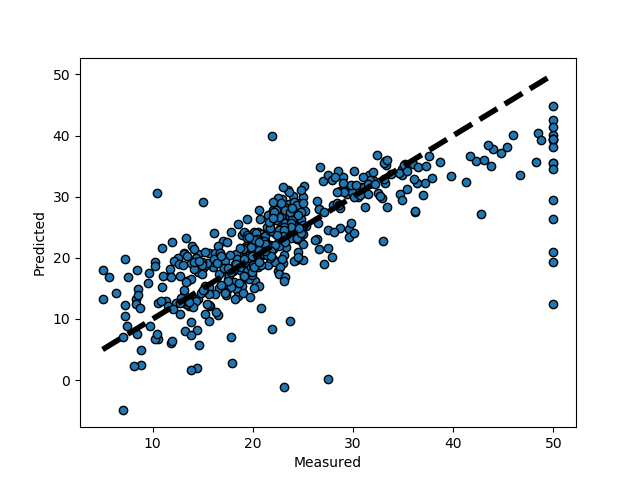
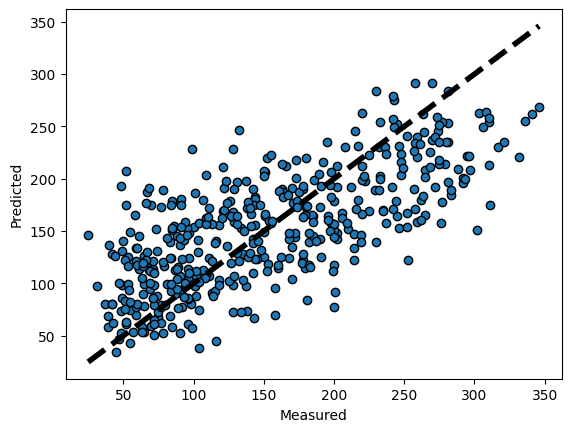
Remove Boston housing dataset
Former-commit-id: 88fa65d427c51e839cefb7ecba3f6a5a9dbcf738

diff --git a/lectures/Wk1-Lecture2.md b/lectures/Wk1-Lecture2.md
@@ -222,22 +222,22 @@ Or there's an even more bare function in numpy `numpy.linalg.lstsq`.
 # Implementation
 
 ~~~python
-import sklearn as sk, matplotlib.pyplot as plt
+from sklearn.linear_model import LinearRegression
+from sklearn.datasets import load_diabetes
+from matplotlib import pyplot as plt
 
-lr = sk.linear_model.LinearRegression()
-boston = sk.datasets.load_boston()
-y = boston.target
+lr = LinearRegression()
+data = load_diabetes()
 
-lr.fit(boston.data, y)
+lr.fit(data.data, data.target) # X, y
 
-predicted = lr.predict(boston.data)
+predicted = lr.predict(data.data)
 
 fig, ax = plt.subplots()
 ax.scatter(y, predicted, edgecolors=(0, 0, 0))
 ax.plot([y.min(), y.max()], [y.min(), y.max()], 'k--', lw=4)
 ax.set_xlabel('Measured')
 ax.set_ylabel('Predicted')
-plt.show()
 ~~~
 
 # Implementation
